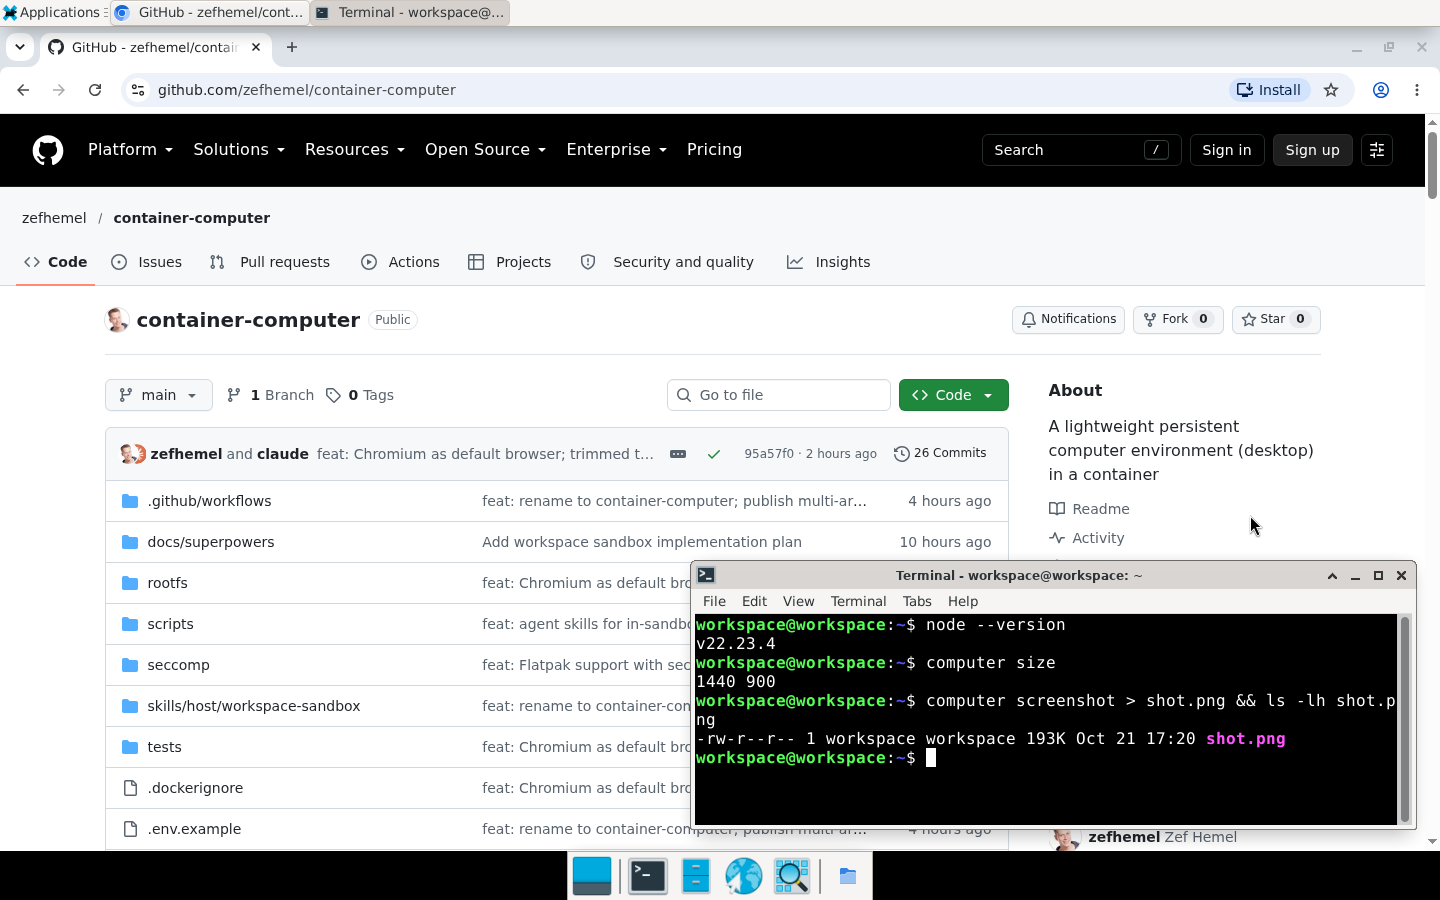
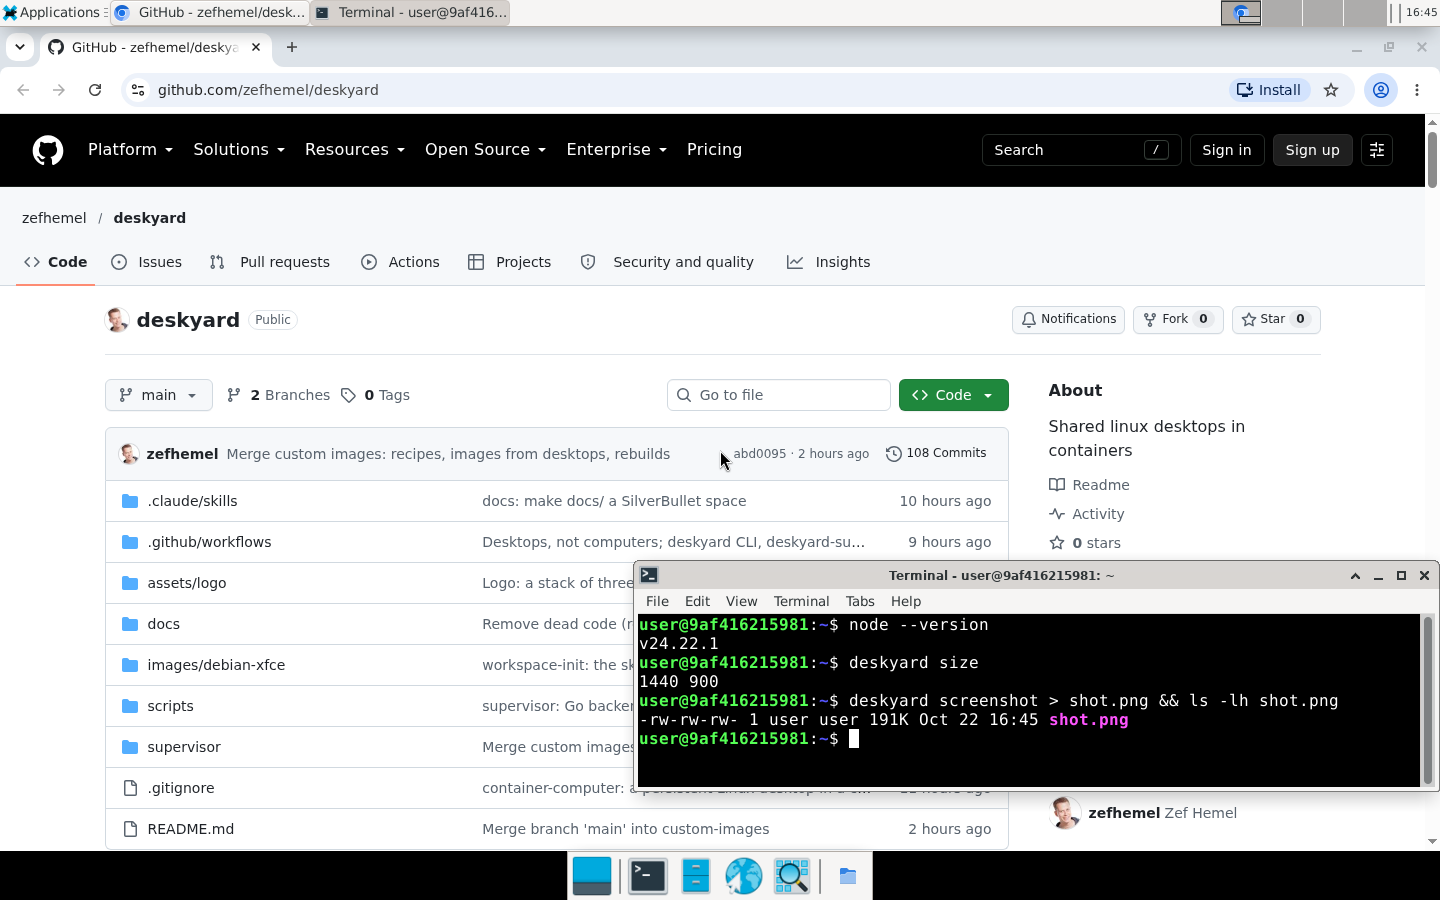
README: a fresh screenshot; the screenshot button is gone

diff --git a/README.md b/README.md
@@ -17,8 +17,7 @@ What's in a desktop:
 
 - **XFCE desktop in the browser** (KasmVNC). It resizes to fit your browser
   window, and the bar above it has the clipboard, keys the browser would
-  otherwise take (Ctrl+Alt+Del, Alt+Tab, ...), a screenshot button and
-  quality presets.
+  otherwise take (Ctrl+Alt+Del, Alt+Tab, ...) and quality presets.
 - **One shared Chromium** with one profile: log in once on the desktop and
   the agent is logged in too. It starts when someone opens it or an agent
   connects to it.
